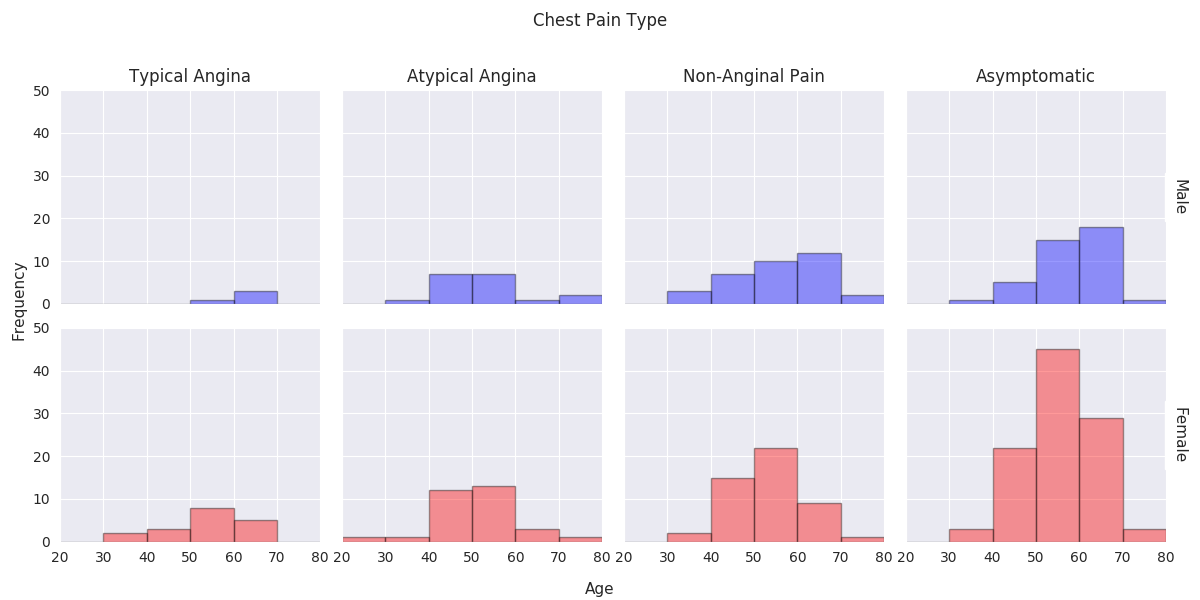
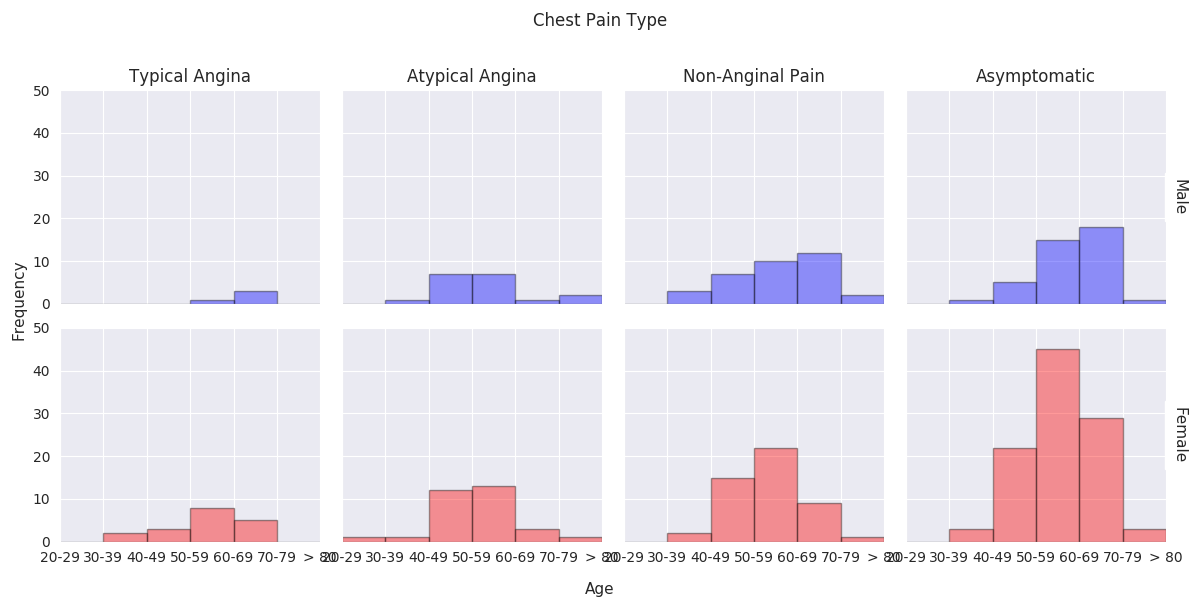
resting ECG

Changed region(s): [[0.0308, 0.9, 0.9867, 0.96]]

diff --git a/Project/Visualization/graph.py b/Project/Visualization/graph.py
@@ -48,11 +48,11 @@ class graph:
         # Axis Limits
         g.axes[1,0].set_ylim(0,50)
         g.axes[1,0].set_xlim(20,80)
-        g.axes[1,0].set_xticks(range(20, 81, 10))
+        g.axes[1,0].set_xticks(range(20, 80, 10))
         g.axes[1,0].set_yticks(range(0, 55, 10))
 
         # Titles
-        plt.subplots_adjust(top=0.85, left=0.05)
+        plt.subplots_adjust(top=0.85, left=0.07, bottom=0.15)
         g.fig.suptitle("Chest Pain Type\n")
         g.axes[0,0].set_title("Typical Angina")
         g.axes[0,1].set_title("Atypical Angina")
@@ -66,6 +66,8 @@ class graph:
         gender_labels =  ["","","","Male","","","","Female","","","",]
         for i, ax in enumerate(g.axes.flat):
             plt.setp(ax.texts, text=gender_labels[i], size=11)
+
+        g.set_xticklabels(rotation=45, labels=["20-29", "30-39", "40-49", "50-59", "60-69", "70-79", "> 80"])
 
         # Save image
         plt.savefig(IMG_PATH + 'graph3.png')
@@ -214,6 +216,51 @@ class graph:
         # Save image
         plt.savefig(IMG_PATH + 'graph6.png')
 
+    # Resting ECG
+    def create_plot_7(self):
+
+        # Get data
+        conn = sqlite3.connect(db.database_name)
+        df = pd.read_sql_query('SELECT Age, Sex, Resting_ECG FROM Heart;', conn)
+
+        ## Plot histograms male and female by type
+
+        sns.set_style("darkgrid")               # set the background of the charts
+        bins = [20,30,40,50,60,70,80]           # group age by 10's
+        palette = {'color': ['b', 'r']}         # separate colours for male/female
+
+        g = sns.FacetGrid(df, row='Sex', col='Resting_ECG', hue='Sex',
+                margin_titles=True, hue_kws=palette)
+        g.map(sns.distplot, 'Age', bins=bins, kde=False,
+                hist_kws=dict(edgecolor="black", linewidth=1));
+
+        ## Format Plot
+
+        # Axis Limits
+        g.axes[1,0].set_ylim(0,50)
+        g.axes[1,0].set_xlim(20,80)
+        g.axes[1,0].set_xticks(range(20, 80, 10))
+        g.axes[1,0].set_yticks(range(0, 55, 10))
+
+        # Titles
+        plt.subplots_adjust(top=0.85, left=0.07, bottom=0.15)
+        g.fig.suptitle("Resting Electrocardiographic Results\n")
+        g.axes[0,0].set_title("Normal")
+        g.axes[0,1].set_title("ST-T Wave Abnormality")
+        g.axes[0,2].set_title("Left Ventricular Hypertrophy")
+
+        # Overall Labels
+        g.set_axis_labels('', '')
+        g.fig.text(x=0.01, y=0.5, verticalalignment='center',s='Frequency', rotation=90, size=11)
+        g.fig.text(x=0.5, y=0.01, horizontalalignment='center', s='Age', size=11)
+        gender_labels =  ["","","Male","","","Female"]
+        for i, ax in enumerate(g.axes.flat):
+            plt.setp(ax.texts, text=gender_labels[i], size=11)
+        g.set_xticklabels(rotation=45, labels=["20-29", "30-39", "40-49", "50-59", "60-69", "70-79", "> 80"])
+
+        # Save image
+        plt.savefig(IMG_PATH + 'graph7.png')
+
     # Max Heart Rate
     def create_plot_8(self):
 
@@ -276,15 +323,17 @@ if __name__ == '__main__':
     # Serum Cholestrol
     g5 = graph(5, db)
     g5.create_plot_5()
-    '''
 
     # Fasting Blood Sugar
-    g5 = graph(6, db)
-    g5.create_plot_6()
+    g6 = graph(6, db)
+    g6.create_plot_6()
 
     '''
     # Resting ECG
+    g7 = graph(7, db)
+    g7.create_plot_7()
 
+    '''
     # Max Heart Rate
     g8 = graph(8, db)
     g8.create_plot_8()
